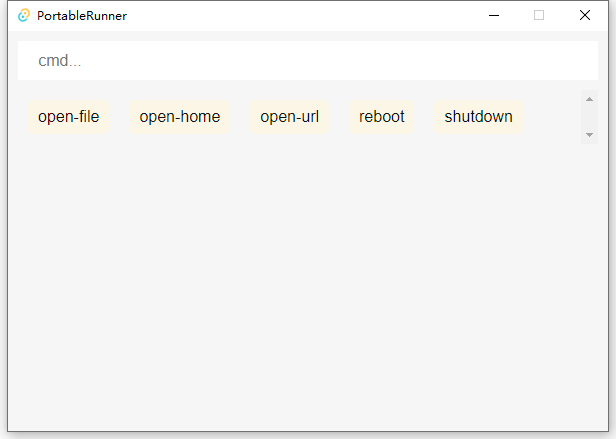
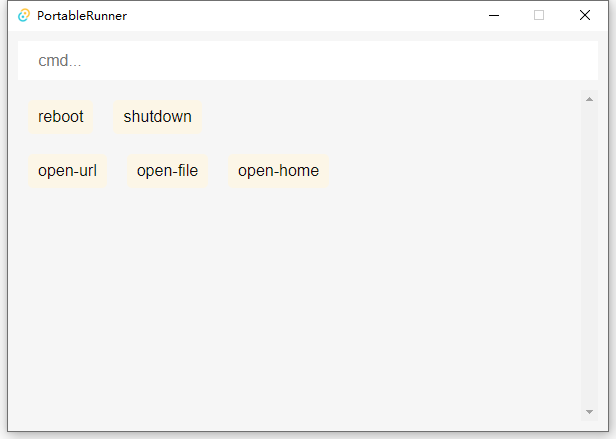
Optimized shortcuts panel layout, support grouping

diff --git a/gui/src/main.js b/gui/src/main.js
@@ -62,16 +62,28 @@ function showCmd() {
 function refreshCmd() {
     cmdList.innerHTML = "";
     cmdLoad().then(list => {
+        let groups = {};
         list.forEach(i => {
-            let item = document.createElement("div");
-            item.classList.add('cmd_item');
-            item.setAttribute('id', 'cmd_item');
-            item.innerHTML = `<span>${i.key}</span>`;
-            item.onclick = (e) => {
-                cmdClick(JSON.parse(i.cmd).toString());
-            };
-            cmdList.appendChild(item);
+            let group = i.group??'default';
+            let value = groups[group]||[];
+            value[value.length] = i;
+            groups[group] = value;
         });
+        for (let group in groups) {
+            let subList = document.createElement("div");
+            subList.classList.add('cmd_sub_list');
+            groups[group].forEach(i => {
+                let item = document.createElement("div");
+                item.classList.add('cmd_item');
+                item.setAttribute('id', 'cmd_item');
+                item.innerHTML = `<span>${i.key}</span>`;
+                item.onclick = (e) => {
+                    cmdClick(i.cmd);
+                };
+                subList.appendChild(item);
+            });
+            cmdList.appendChild(subList);
+        }
     });
 }
 

diff --git a/gui/src/styles.css b/gui/src/styles.css
@@ -3,6 +3,7 @@ body {
     padding: 10px;
     overflow: hidden;
     max-height: 360px;
+    user-select: none;
 }
 
 input {
@@ -74,15 +75,26 @@ input:focus {
 
 .cmd_list {
     display: flex;
+    height: 360px;
     flex-wrap: wrap;
     margin-top: 10px;
+    max-height: 360px;
     overflow-x: hidden;
     overflow-y: scroll;
+    align-content: baseline;
+}
+
+.cmd_sub_list {
+    width: 100%;
+    display: flex;
+    flex-wrap: wrap;
+    align-content: baseline;
 }
 
 .cmd_item {
     margin: 10px;
     cursor: pointer;
+    display: inline;
     padding: 5px 10px;
     border-radius: 5px;
     background: oldlace;

diff --git a/gui/src/index.html b/gui/src/index.html
@@ -30,6 +30,14 @@
             <input id="input_cmd" placeholder="cmd..." />
         </div>
         <div id="cmd_list" class="cmd_list">
+            <div class="cmd_list">
+                <div class="cmd_item">
+                    <span>test1</span>
+                </div>
+                <div class="cmd_item">
+                    <span>test2</span>
+                </div>
+            </div>
         </div>
     </div>
   </body>

diff --git a/gui/src-tauri/src/main.rs b/gui/src-tauri/src/main.rs
@@ -20,12 +20,6 @@ struct Storage {
     hpath: String,
 }
 
-#[derive(Serialize, Deserialize)]
-struct Cmd {
-    key: String,
-    cmd: String,
-}
-
 #[tauri::command]
 fn set_load(storage: State<Storage>) -> Storage {
     Storage { tpath: storage.tpath.clone(), lpath: storage.lpath.clone(), hpath: storage.hpath.clone() }
@@ -40,23 +34,19 @@ fn set_save(set: Storage, _storage: State<Storage>) -> bool {
 }
 
 #[tauri::command]
-fn cmd_load() -> Vec<Cmd> {
-    let mut list = Vec::new();
+fn cmd_load() -> Vec<Value> {
     match std::env::var("HOME") {
         Ok(val) => {
             let pd_path = format!("{}\\.pd.json", &val);
             if Path::new(&pd_path).exists() {
                 let content = std::fs::read_to_string(&pd_path).unwrap();
                 let config = serde_json::from_str::<HashMap<String, Value>>(&content).unwrap();
-                let shortcuts = &config["shortcuts"].as_object().unwrap();
-                for key in shortcuts.keys() {
-                    list.push(Cmd { key: key.to_string(), cmd: (&shortcuts[key]).to_string() });
-                }
+                return config["shortcuts"].as_array().unwrap().to_vec();
             }
         },
         Err(_e) => (),
     }
-    return list;
+    return Vec::new();
 }
 
 #[tauri::command]

diff --git a/README.md b/README.md
@@ -48,13 +48,31 @@ USERPROFILE=X:\work\.home
 **example**
 ```json
 {
-    "shortcuts": {
-        "open-url": "msedge",
-        "open-file": "explorer",
-        "open-home": "explorer %HOME%",
-        "reboot": "shutdown /r /f /t 0",
-        "shutdown": "shutdown /s /f /t 0"
-    }
+    "shortcuts": [
+        {
+            "key": "reboot",
+            "cmd": "shutdown /r /f /t 0"
+        },
+        {
+            "key": "shutdown",
+            "cmd": "shutdown /s /f /t 0"
+        },
+        {
+            "key": "open-url",
+            "cmd": "msedge",
+            "group": "open"
+        },
+        {
+            "key": "open-file",
+            "cmd": "explorer",
+            "group": "open"
+        },
+        {
+            "key": "open-home",
+            "cmd": "explorer %HOME%",
+            "group": "open"
+        }
+    ]
 }
 ```
 * entering [open-home], [explorer %HOME%] will be executed
